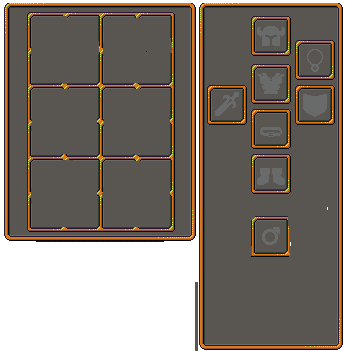
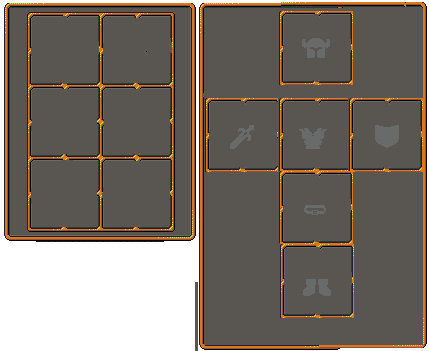
Sur la branche ui  Votre branche est à jour avec 'origin/ui'.
Modifications qui seront validées :
	modifié :         ressources/ui/item/inv.png
	modifié :         src/ui/inventori.c
	modifié :         src/ui/screen_menu.c

 Modifications qui ne seront pas validées :
	modifié :         Makefile
	modifié :         src/fight/render/draw_menu.c
	modifié :         src/fight/render/render_fight.c

diff --git a/src/ui/inventori.c b/src/ui/inventori.c
@@ -10,13 +10,13 @@
 #include "csfml_binding.h"
 #include "first_plan_screen.h"
 
-void create_item(item_t *item, char *path, int id, int num)
+void create_item(item_t *item, char *path, int id)
 {
     item->id = id;
     item->pos = (sfVector2f){0, 0};
     item->sprite = sfSprite_create();
     item->stat1 = 0;
-    item->num = num;
+    item->num = 0;
     item->stat2 = 0;
     item->texture = CFF(path, NULL);
     sfSprite_setTexture(item->sprite, item->texture, sfTrue);
@@ -28,12 +28,12 @@ void init_item(main_t *structm)
     structm->s_menu.item = malloc(sizeof(item_t *) * 6);
     for (int j = 0; j < 6; j += 1)
         structm->s_menu.item[j] = malloc(sizeof(item_t));
-    create_item(structm->s_menu.item[0], "ressources/ui/item/norme.png", 0, 0);
-    create_item(structm->s_menu.item[1], "ressources/ui/item/norme.png", 1, 1);
-    create_item(structm->s_menu.item[2], "ressources/ui/item/norme.png", 2, 2);
-    create_item(structm->s_menu.item[3], "ressources/ui/item/norme.png", 3, 3);
-    create_item(structm->s_menu.item[4], "ressources/ui/item/norme.png", 4, 4);
-    create_item(structm->s_menu.item[5], "ressources/ui/item/norme.png", 5, 5);
+    create_item(structm->s_menu.item[0], "ressources/ui/item/norme.png", 0);
+    create_item(structm->s_menu.item[1], "ressources/ui/item/norme.png", 1);
+    create_item(structm->s_menu.item[2], "ressources/ui/item/norme.png", 2);
+    create_item(structm->s_menu.item[3], "ressources/ui/item/norme.png", 3);
+    create_item(structm->s_menu.item[4], "ressources/ui/item/norme.png", 4);
+    create_item(structm->s_menu.item[5], "ressources/ui/item/norme.png", 5);
 }
 
 void init_inventori(main_t *structm)
@@ -52,19 +52,92 @@ void init_inventori(main_t *structm)
 
 void find_item(main_t *glob, sfVector2i cursor)
 {
-    for (int i = 0; i < 6; i++) {
-        if (cursor.x > 730 && cursor.x < 798 && cursor.y > 403 && cursor.y < 469 && glob->s_menu.item[i]->num == 0)
+    for (int i = 0; i < 6; i++)
+    {
+        if (cursor.x > 730 && cursor.x < 798 && cursor.y > 403 && cursor.y < 469 && glob->s_menu.item[i]->num == 0 && glob->s_menu.item[i]->state == 1)
+        {
             glob->s_menu.item[i]->state = 2;
-        if (cursor.x > 803 && cursor.x < 872 && cursor.y > 406 && cursor.y < 467 && glob->s_menu.item[i]->num == 1)
+            glob->s_menu.item[i]->num = -1;
+        }
+        if (cursor.x > 803 && cursor.x < 872 && cursor.y > 406 && cursor.y < 467 && glob->s_menu.item[i]->num == 1 && glob->s_menu.item[i]->state == 1)
+        {
             glob->s_menu.item[i]->state = 2;
-        if (cursor.x > 730 && cursor.x < 799 && cursor.y > 474 && cursor.y < 534 && glob->s_menu.item[i]->num == 2)
+            glob->s_menu.item[i]->num = -1;
+        }
+        if (cursor.x > 730 && cursor.x < 798 && cursor.y > 474 && cursor.y < 534 && glob->s_menu.item[i]->num == 2 && glob->s_menu.item[i]->state == 1)
+        {
             glob->s_menu.item[i]->state = 2;
-        if (cursor.x > 803 && cursor.x < 873 && cursor.y > 475 && cursor.y < 538 && glob->s_menu.item[i]->num == 3)
+            glob->s_menu.item[i]->num = -1;
+        }
+        if (cursor.x > 803 && cursor.x < 872 && cursor.y > 475 && cursor.y < 538 && glob->s_menu.item[i]->num == 3 && glob->s_menu.item[i]->state == 1)
+        {
             glob->s_menu.item[i]->state = 2;
-        if (cursor.x > 730 && cursor.x < 798 && cursor.y > 541 && cursor.y < 605 && glob->s_menu.item[i]->num == 5)
+            glob->s_menu.item[i]->num = -1;
+        }
+        if (cursor.x > 730 && cursor.x < 798 && cursor.y > 541 && cursor.y < 605 && glob->s_menu.item[i]->num == 5 && glob->s_menu.item[i]->state == 1)
+        {
             glob->s_menu.item[i]->state = 2;
-        if (cursor.x > 803 && cursor.x < 870 && cursor.y > 541 && cursor.y < 605 && glob->s_menu.item[i]->num == 4)
+            glob->s_menu.item[i]->num = -1;
+        }
+        if (cursor.x > 803 && cursor.x < 870 && cursor.y > 541 && cursor.y < 605 && glob->s_menu.item[i]->num == 4 && glob->s_menu.item[i]->state == 1)
+        {
             glob->s_menu.item[i]->state = 2;
+            glob->s_menu.item[i]->num = -1;
+        }
+    }
+}
+
+int assign_num(main_t *glob)
+{
+    int ref = 0;
+    int ref2 = 0;
+    int n;
+    for (n = 0; n < 6 || ref == n; n++) {
+        ref = n;
+        for(int i = 0; i < 6; i++)
+            (glob->s_menu.item[i]->num == n) ? ref++ : 0;
+            if(ref == ref2)
+                break;
+            else
+                ref2++;
+    }
+    return (ref);
+}
+
+void find_wear(main_t *glob, sfVector2i cursor)
+{
+    for (int i = 0; i < 6; i++)
+    {
+        if (cursor.x > 982 && cursor.x < 1050 && cursor.y > 403 && cursor.y < 466 && glob->s_menu.item[i]->id == 0 && glob->s_menu.item[i]->state == 2)
+        {
+            glob->s_menu.item[i]->state = 1;
+            glob->s_menu.item[i]->num = assign_num(glob);
+        }
+        if (cursor.x > 909 && cursor.x < 978 && cursor.y > 485 && cursor.y < 549 && glob->s_menu.item[i]->id == 1 && glob->s_menu.item[i]->state == 2)
+        {
+            glob->s_menu.item[i]->state = 1;
+            glob->s_menu.item[i]->num = assign_num(glob);
+        }
+        if (cursor.x > 964 && cursor.x < 1050 && cursor.y > 484 && cursor.y < 551 && glob->s_menu.item[i]->id == 2 && glob->s_menu.item[i]->state == 2)
+        {
+            glob->s_menu.item[i]->state = 1;
+            glob->s_menu.item[i]->num = assign_num(glob);
+        }
+        if (cursor.x > 1053 && cursor.x < 1121 && cursor.y > 489 && cursor.y < 548 && glob->s_menu.item[i]->id == 3 && glob->s_menu.item[i]->state == 2)
+        {
+            glob->s_menu.item[i]->state = 1;
+            glob->s_menu.item[i]->num = assign_num(glob);
+        }
+        if (cursor.x > 983 && cursor.x < 1051 && cursor.y > 555 && cursor.y < 617 && glob->s_menu.item[i]->id == 4 && glob->s_menu.item[i]->state == 2)
+        {
+            glob->s_menu.item[i]->state = 1;
+            glob->s_menu.item[i]->num = assign_num(glob);
+        }
+        if (cursor.x > 984 && cursor.x < 1052 && cursor.y > 626 && cursor.y < 687 && glob->s_menu.item[i]->id == 5 && glob->s_menu.item[i]->state == 2)
+        {
+            glob->s_menu.item[i]->state = 1;
+            glob->s_menu.item[i]->num = assign_num(glob);
+        }
     }
 }
 
@@ -76,16 +149,19 @@ void get_mouse(main_t *glob)
         if (cursor.y > 403 && cursor.y < 607)
             find_item(glob, cursor);
     }
+    if (cursor.x > 905 && cursor.x < 1123 && glob->event.type == sfEvtMouseButtonPressed)
+        if (cursor.y > 397 && cursor.y < 716)
+            find_wear(glob, cursor);
 }
 
 void wear_stuff(item_t *item, main_t *glob)
 {
-    (item->state ==  2 && item->id == 0) ? sfSprite_setPosition(item->sprite, (sfVector2f){200, 299}) : 0;
-    (item->state ==  2 && item->id == 1) ? sfSprite_setPosition(item->sprite, (sfVector2f){0, 100}) : 0;
-    (item->state ==  2 && item->id == 2) ? sfSprite_setPosition(item->sprite, (sfVector2f){0, 200}) : 0;
-    (item->state ==  2 && item->id == 3) ? sfSprite_setPosition(item->sprite, (sfVector2f){0, 300}) : 0;
-    (item->state ==  2 && item->id == 4) ? sfSprite_setPosition(item->sprite, (sfVector2f){0, 400}) : 0;
-    (item->state ==  2 && item->id == 5) ? sfSprite_setPosition(item->sprite, (sfVector2f){0, 500}) : 0;
+    (item->state == 2 && item->id == 0) ? sfSprite_setPosition(item->sprite, (sfVector2f){979, 413}) : 0;
+    (item->state == 2 && item->id == 1) ? sfSprite_setPosition(item->sprite, (sfVector2f){906, 497}) : 0;
+    (item->state == 2 && item->id == 2) ? sfSprite_setPosition(item->sprite, (sfVector2f){981, 497}) : 0;
+    (item->state == 2 && item->id == 3) ? sfSprite_setPosition(item->sprite, (sfVector2f){1044, 497}) : 0;
+    (item->state == 2 && item->id == 4) ? sfSprite_setPosition(item->sprite, (sfVector2f){979, 575}) : 0;
+    (item->state == 2 && item->id == 5) ? sfSprite_setPosition(item->sprite, (sfVector2f){979, 646}) : 0;
     sfRenderWindow_drawSprite(glob->window, item->sprite, NULL);
 }
 
@@ -96,7 +172,8 @@ void render_inv(main_t *structm)
     sfRenderWindow_setView(structm->window, structm->story->fixed);
     sfRenderWindow_drawSprite(structm->window, structm->s_menu.inv.sprite, NULL);
     get_mouse(structm);
-    for (int i = 0; i < 6; i++) {
+    for (int i = 0; i < 6; i++)
+    {
         if (structm->s_menu.item[i]->state == 1)
         {
             (structm->s_menu.item[i]->num == 0) ? sfSprite_setPosition(structm->s_menu.item[i]->sprite, (sfVector2f){722, 415}) : 0;
@@ -109,5 +186,5 @@ void render_inv(main_t *structm)
         }
         if (structm->s_menu.item[i]->state == 2)
             wear_stuff(structm->s_menu.item[i], structm);
-        }
+    }
 }

diff --git a/src/ui/screen_menu.c b/src/ui/screen_menu.c
@@ -315,13 +315,13 @@ void exec_menu(main_t *struct_main)
     disp_menu(struct_main);
 }
 
-handle_pause_menu(main_t *main, sfEvent event)
+void handle_pause_menu(main_t *main, sfEvent event)
 {
     if (event.type == sfEvtKeyPressed && event.key.code == sfKeyP)
         main->s_menu.bol_pause = !(main->s_menu.bol_pause);
 }
 
-handle_inv(main_t *main, sfEvent event)
+void handle_inv(main_t *main, sfEvent event)
 {
     if (event.type == sfEvtKeyPressed && event.key.code == sfKeyI)
         main->s_menu.inv.disp = !(main->s_menu.inv.disp);
